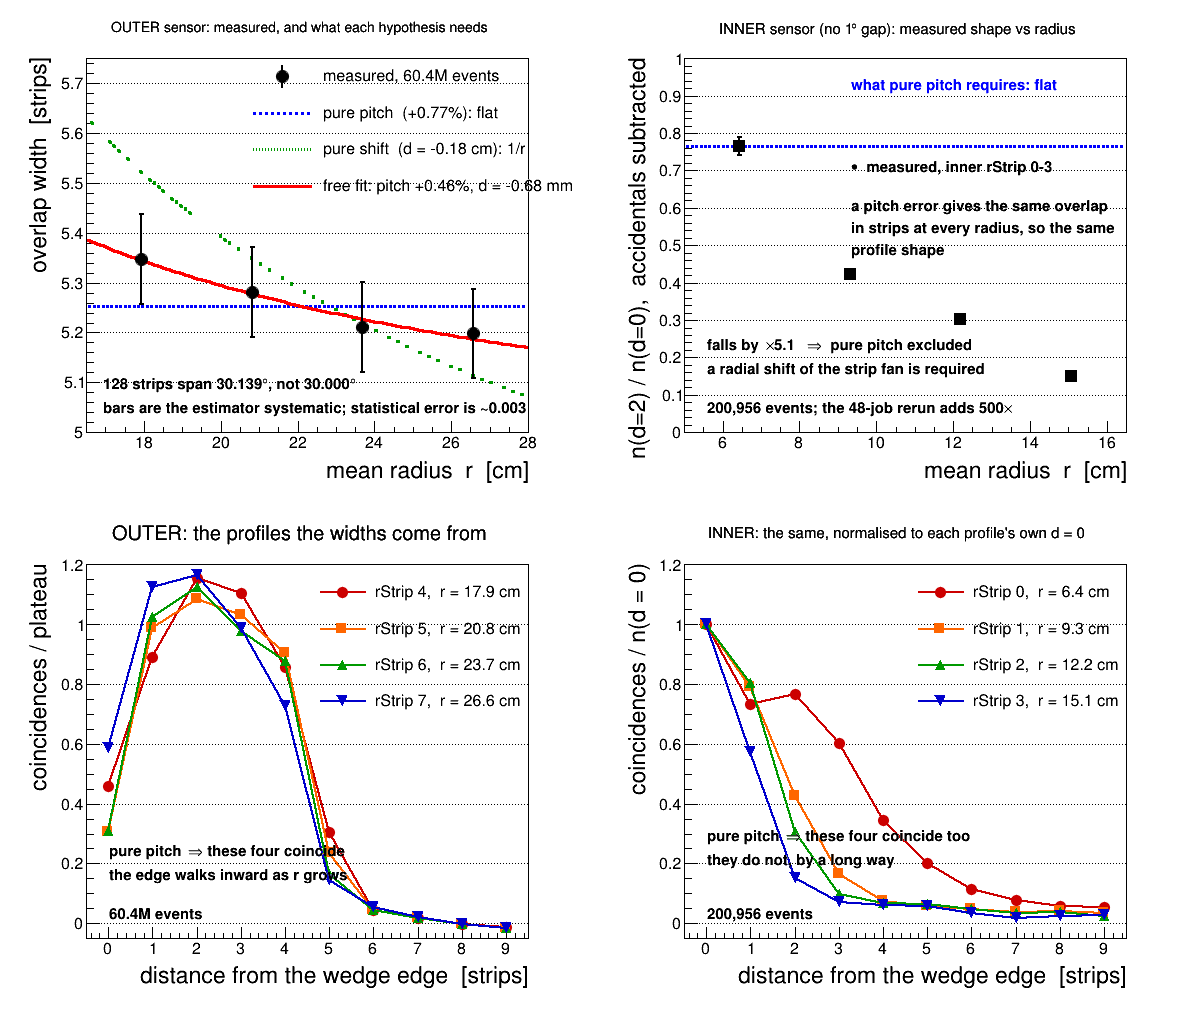
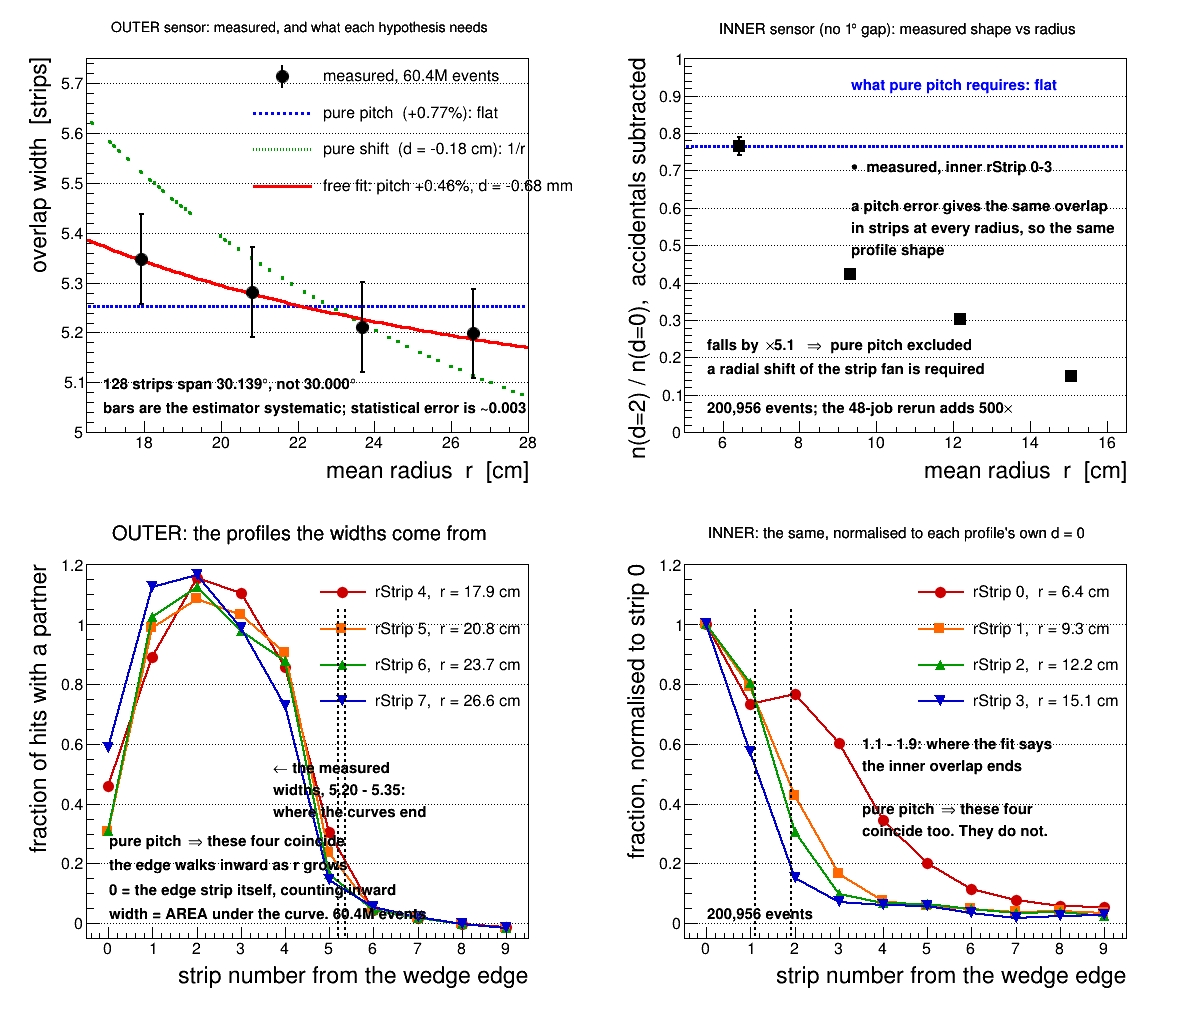
FST overlap: make the raw panels readable -- say what x is, and mark the width
The bottom panels did not explain themselves. Two fixes.

  x axis is now "strip number from the wedge edge", with "0 = the edge strip
  itself, counting inward" spelled out in the pad. It was "distance from the
  wedge edge [strips]", which reads like a length rather than an index.

  The width is MARKED. The question it failed to answer was "why not around
  5.2-5.4?" -- because the width is not a value on the y axis, it is where the
  curve dies, and equally the AREA under it. Dashed verticals at 5.198 and
  5.347 now sit on the outer panel, and the four curves fall through exactly
  there, so the 5.2-5.4 of the top-left panel is visibly the same number. The
  inner panel gets the same at 1.1 and 1.9, labelled as the fit's PREDICTION
  rather than a measurement.

Claude-Session: https://claude.ai/code/session_01Ja7z3XUfUqiVzkNQkoczor

diff --git a/script/fstOverlapRdep.C b/script/fstOverlapRdep.C
@@ -190,8 +190,8 @@ void fstOverlapRdep()
         { 341731,  606988,  627345,  539743,  410522, 124500,  79005,  62518,  51404, 45039 } };
 
     TH2F *fr3 = new TH2F("fr3", "OUTER: the profiles the widths come from;"
-                                "distance from the wedge edge  [strips];"
-                                "coincidences / plateau",
+                                "strip number from the wedge edge;"
+                                "fraction of hits with a partner",
                          10, -0.5, 9.5, 10, -0.05, 1.20);
     fr3->GetXaxis()->SetTitleSize(0.05); fr3->GetYaxis()->SetTitleSize(0.05);
     fr3->Draw();
@@ -212,10 +212,22 @@ void fstOverlapRdep()
         l3->AddEntry(gg, Form("rStrip %d,  r = %.1f cm", i3 + 4, r[i3]), "pl");
     }
     l3->Draw();
+    // The WIDTH is where each curve dies, and equals the AREA under it -- it is
+    // not a value on the y axis. Mark the span of the four measured widths so
+    // the 5.2-5.4 of the top-left panel is visibly the same number as this.
+    for (int iv = 0; iv < 2; iv++) {
+        double xv = iv ? 5.347 : 5.198;
+        TLine *lv = new TLine(xv, -0.05, xv, 1.05);
+        lv->SetLineStyle(2); lv->SetLineWidth(2); lv->SetLineColor(kBlack); lv->Draw();
+    }
     TLatex t3; t3.SetNDC(); t3.SetTextSize(0.034);
-    t3.DrawLatex(0.17, 0.30, "pure pitch #Rightarrow these four coincide");
-    t3.DrawLatex(0.17, 0.25, "the edge walks inward as r grows");
-    t3.DrawLatex(0.17, 0.17, "60.4M events");
+    t3.DrawLatex(0.455, 0.47, "#leftarrow the measured");
+    t3.DrawLatex(0.455, 0.425, "widths, 5.20 - 5.35:");
+    t3.DrawLatex(0.455, 0.38, "where the curves end");
+    t3.DrawLatex(0.17, 0.32, "pure pitch #Rightarrow these four coincide");
+    t3.DrawLatex(0.17, 0.27, "the edge walks inward as r grows");
+    t3.DrawLatex(0.17, 0.22, "0 = the edge strip itself, counting inward");
+    t3.DrawLatex(0.17, 0.17, "width = AREA under the curve. 60.4M events");
 
     // ============ PANEL 4: the INNER raw profiles =========================
     // Same idea, but there is no plateau to normalise to, so each profile is
@@ -233,8 +245,8 @@ void fstOverlapRdep()
     double mi4[4] = { 71.7, 69.2, 43.4, 37.9 };   // mirrored cell, flat in d
 
     TH2F *fr4 = new TH2F("fr4", "INNER: the same, normalised to each profile's own d = 0;"
-                                "distance from the wedge edge  [strips];"
-                                "coincidences / n(d = 0)",
+                                "strip number from the wedge edge;"
+                                "fraction, normalised to strip 0",
                          10, -0.5, 9.5, 10, -0.05, 1.20);
     fr4->GetXaxis()->SetTitleSize(0.05); fr4->GetYaxis()->SetTitleSize(0.05);
     fr4->Draw();
@@ -252,9 +264,16 @@ void fstOverlapRdep()
         l4->AddEntry(gg, Form("rStrip %d,  r = %.1f cm", i4, ri[i4]), "pl");
     }
     l4->Draw();
+    for (int iw = 0; iw < 2; iw++) {
+        double xw = iw ? 1.92 : 1.10;
+        TLine *lw = new TLine(xw, -0.05, xw, 1.05);
+        lw->SetLineStyle(2); lw->SetLineWidth(2); lw->SetLineColor(kBlack); lw->Draw();
+    }
     TLatex t4; t4.SetNDC(); t4.SetTextSize(0.034);
-    t4.DrawLatex(0.17, 0.33, "pure pitch #Rightarrow these four coincide too");
-    t4.DrawLatex(0.17, 0.28, "they do not, by a long way");
+    t4.DrawLatex(0.44, 0.52, "1.1 - 1.9: where the fit says");
+    t4.DrawLatex(0.44, 0.475, "the inner overlap ends");
+    t4.DrawLatex(0.44, 0.385, "pure pitch #Rightarrow these four");
+    t4.DrawLatex(0.44, 0.34, "coincide too. They do not.");
     t4.DrawLatex(0.17, 0.17, "200,956 events");
 
     c->SaveAs("FstOuterSensorOverlap/plots/fwo_rdep.png");
